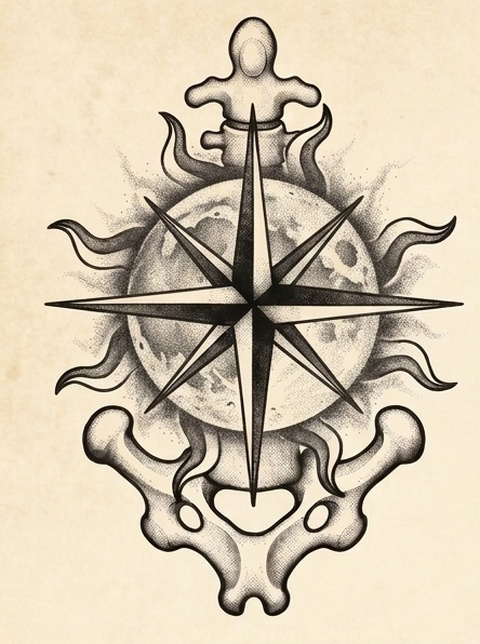
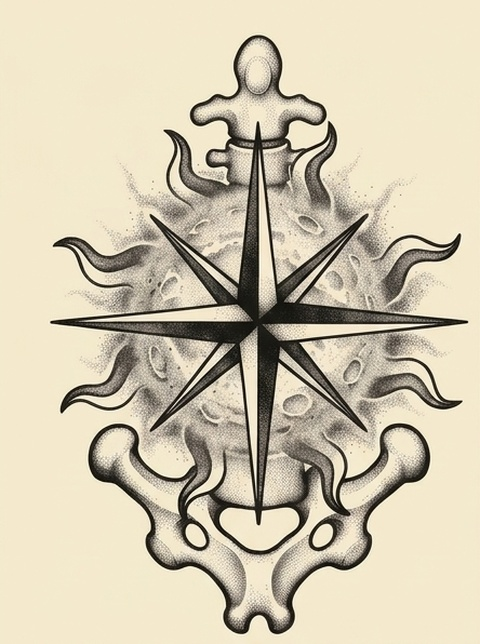
Fix Step 7 Moon outer edge to 100% borderless E-3 flame-mist (v=2)

diff --git a/tattoo/step7_moon.html b/tattoo/step7_moon.html
@@ -43,36 +43,36 @@
 <h1>🌕✨ Step 7：一目で「月」と認知できる4つの月デザイン</h1>
 <div class="sub">画像はタップで大きく拡大できます！<br>【E-3】の陽炎ぼかしフチ＆太陽フレアはそのままに、ゴツゴツした穴を減らして「誰もがパッと見て月とわかる4パターン」に整えました。</div>
 
-<div class="full-box" onclick="zoomImg('step7_moon.jpg?v=1')">
-  <img src="step7_moon.jpg?v=1" alt="Step 7 一目で月とわかる4案一覧">
+<div class="full-box" onclick="zoomImg('step7_moon.jpg?v=2')">
+  <img src="step7_moon.jpg?v=2" alt="Step 7 一目で月とわかる4案一覧">
 </div>
 
 <div class="sec-label">① 見慣れた「満月の模様」＆「三日月の明暗」で月とわかる2案</div>
 <div class="grid">
   <div class="card" id="card-K-1">
-    <img src="step7_k1.jpg?v=1" onclick="zoomImg(this.src)" alt="K-1案">
+    <img src="step7_k1.jpg?v=2" onclick="zoomImg(this.src)" alt="K-1案">
     <div class="c-title">【K-1】月の海（満月の淡い模様）＋ 控えめクレーター</div>
     <div class="c-desc">ボコボコした穴をグッと減らし、夜空で見上げる「満月の淡い模様（月の海）」と少数の小さなクレーターで上品に表現した月。</div>
     <button class="pick-btn" onclick="pickBase('K-1')">この【K-1】にする</button>
   </div>
   <div class="card" id="card-K-2">
-    <img src="step7_k2.jpg?v=1" onclick="zoomImg(this.src)" alt="K-2案">
+    <img src="step7_k2.jpg?v=2" onclick="zoomImg(this.src)" alt="K-2案">
     <div class="c-title">【K-2】三日月の明暗グラデ ＋ 控えめクレーター</div>
     <div class="c-desc">誰が見ても0.5秒で「月！」とわかる三日月型の光と影のコントラストをつけ、クレーターを3〜4個に絞った立体月。</div>
     <button class="pick-btn" onclick="pickBase('K-2')">この【K-2】にする</button>
   </div>
 </div>
 
-<div class="sec-label">② 「三日月シルエット内蔵」＆「すっきり引き算の満月」2案</div>
+<div class="sec-label">② 「見慣れた満月の濃淡模様」＆「すっきり引き算の満月」2案</div>
 <div class="grid">
   <div class="card" id="card-K-3">
-    <img src="step7_k3.jpg?v=1" onclick="zoomImg(this.src)" alt="K-3案">
+    <img src="step7_k3.jpg?v=2" onclick="zoomImg(this.src)" alt="K-3案">
     <div class="c-title">【K-3】見慣れた満月の濃淡模様（クレーター極小2〜3個）</div>
     <div class="c-desc">ボコボコした穴をほぼ無くし、誰もが夜空で見覚えのある満月の優しい濃淡シルエットを中心に描いた月。</div>
     <button class="pick-btn" onclick="pickBase('K-3')">この【K-3】にする</button>
   </div>
   <div class="card" id="card-K-4">
-    <img src="step7_k4.jpg?v=1" onclick="zoomImg(this.src)" alt="K-4案">
+    <img src="step7_k4.jpg?v=2" onclick="zoomImg(this.src)" alt="K-4案">
     <div class="c-title">【K-4】クレーター4〜5個だけの「すっきり輝く満月」</div>
     <div class="c-desc">【E-3】からクレーターを大幅に引き算し、なめらかに光る月肌にワンポイントで数個だけ丸いクレーターを添えた王道案。</div>
     <button class="pick-btn" onclick="pickBase('K-4')">この【K-4】にする</button>
